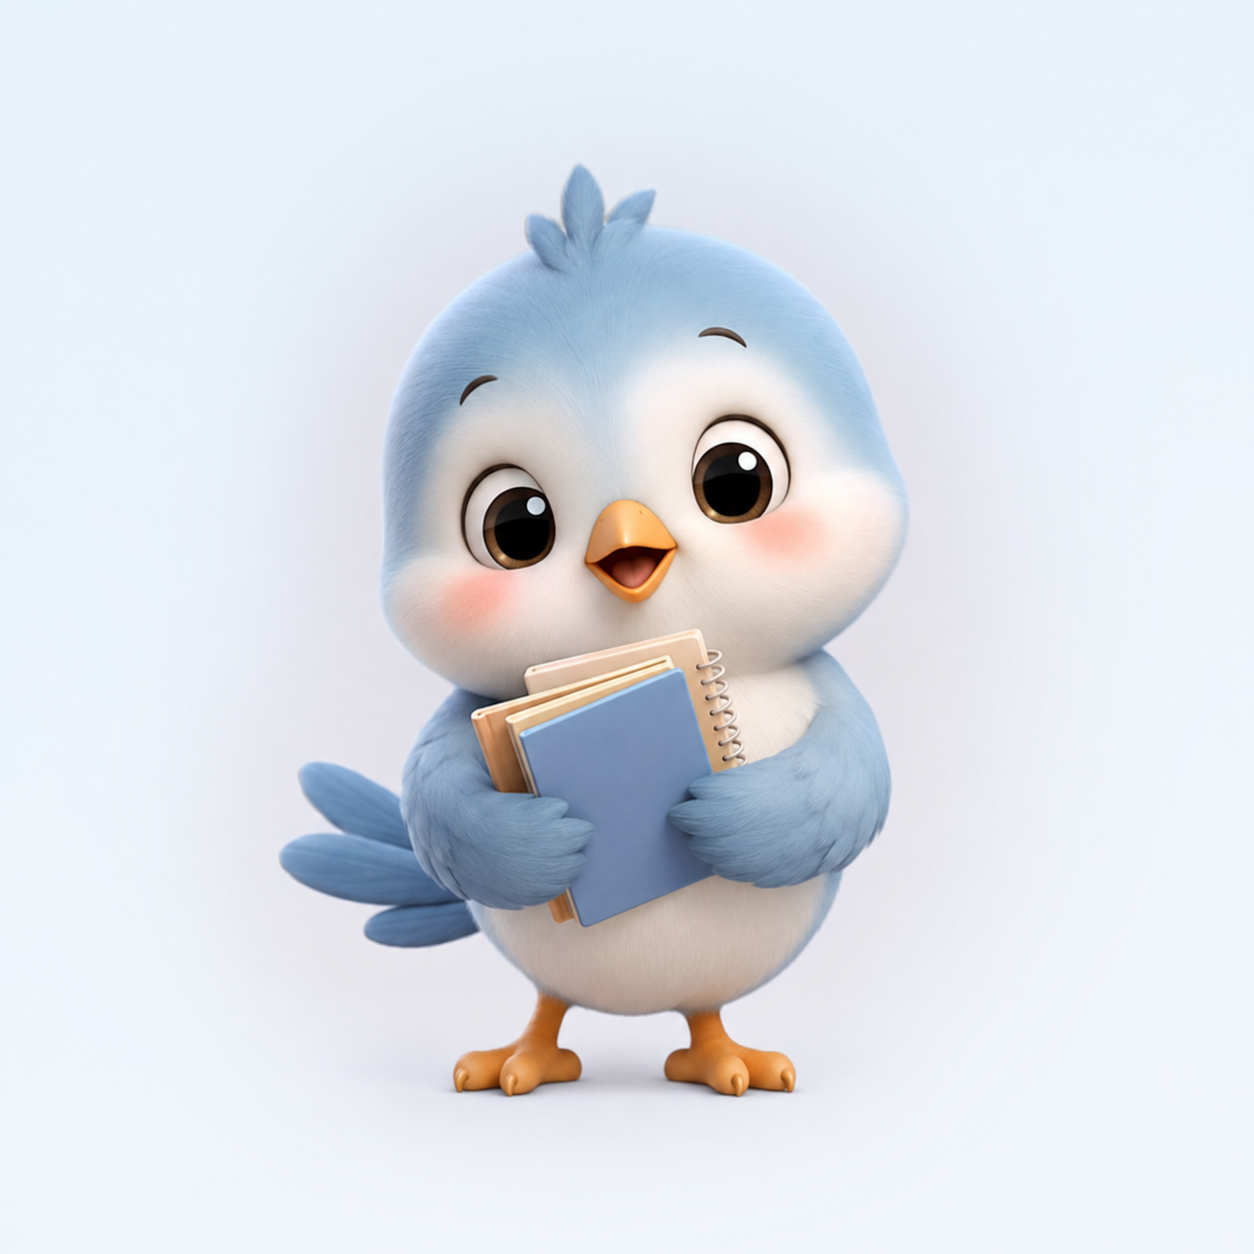
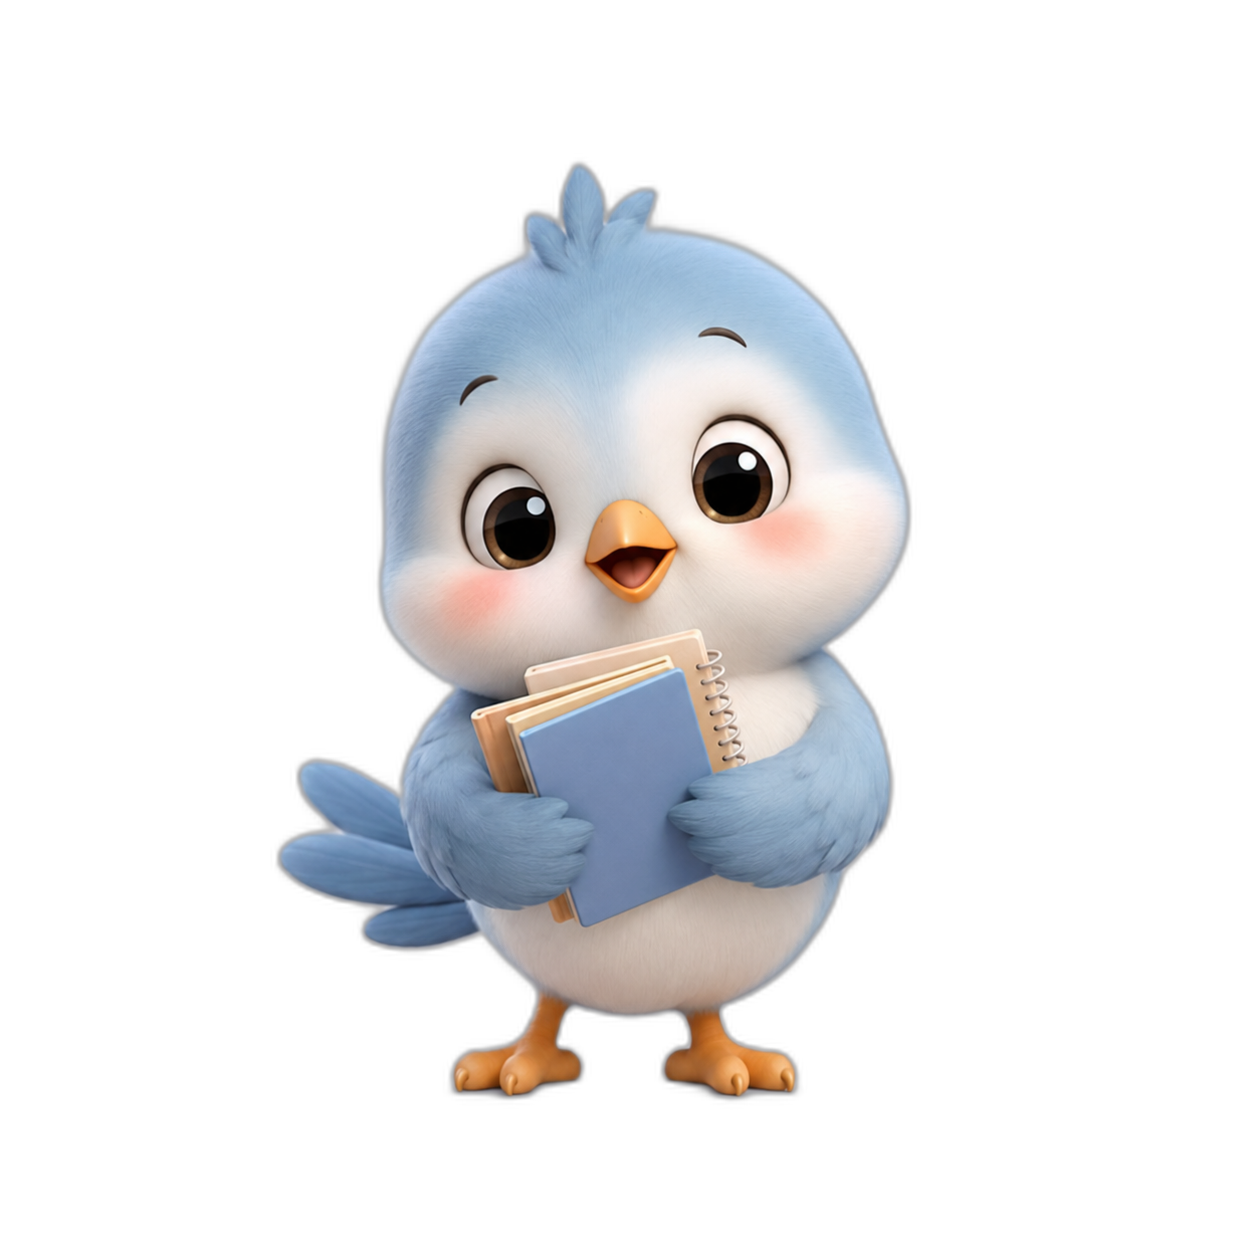
feat: Fully transparent background cutout for Bird_Student mascot on Homepage

Changed region(s): [[0.1866, 0.0311, 0.8086, 0.9019], [0.0, 0.0, 0.0622, 0.0622], [0.622, 0.8397, 0.6842, 0.8708]]

diff --git a/front-end/src/index.css b/front-end/src/index.css
@@ -1462,14 +1462,11 @@ textarea {
 }
 
 .bird-character-image {
-  max-width: 380px;
+  max-width: 410px;
   width: 100%;
   height: auto;
   object-fit: contain;
-  border-radius: 28px;
-  -webkit-mask-image: radial-gradient(circle at 50% 50%, black 65%, rgba(0,0,0,0.85) 80%, transparent 97%);
-  mask-image: radial-gradient(circle at 50% 50%, black 65%, rgba(0,0,0,0.85) 80%, transparent 97%);
-  filter: drop-shadow(0 20px 30px rgba(0, 0, 0, 0.4));
+  filter: drop-shadow(0 20px 35px rgba(0, 0, 0, 0.45));
 }
 
 /* FLOATING BADGES AROUND BIRD */
